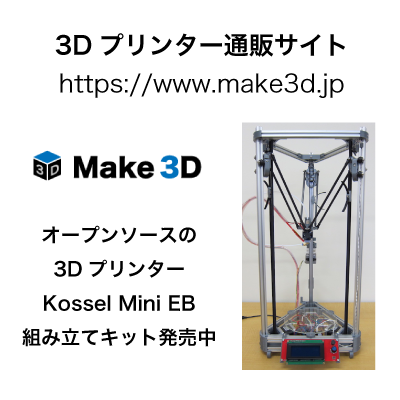
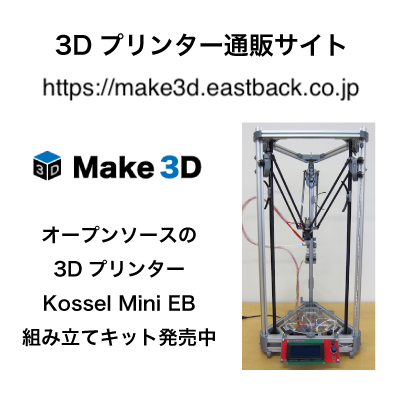
Make3DのURLを変更

Changed region(s): [[0.09, 0.18, 0.9, 0.27]]

diff --git a/en/index.html b/en/index.html
@@ -424,7 +424,7 @@ Customer Cast is a service launched in October 2016, and has been used by many p
             <div class='columns'>
               <div class='column is-12'>
             <p class='my-1 has-text-weight-semibold'>
-Open source 3D printer Kossel Mini EB Sale of assembly kits, etc. https://www.make3d.jp
+Open source 3D printer Kossel Mini EB Sale of assembly kits, etc. https://make3d.eastback.co.jp
             </p>
             </div>
             </div>
@@ -559,7 +559,7 @@ Open source 3D printer Kossel Mini EB Sale of assembly kits, etc. https://www.ma
 
                         <div class='card-overlay'>
                           <h2 class='has-text-weight-bold'>make3D</h2>
-                          <a  href="https://www.make3d.jp/"  target="_blank" rel="noopener">
+                          <a  href="https://make3d.eastback.co.jp/"  target="_blank" rel="noopener">
                             <i class="fas fa-external-link-alt fa-3x has-text-white"></i>
                           </a>
                         </div>

diff --git a/index.html b/index.html
@@ -427,7 +427,7 @@
             <p class='my-1 has-text-weight-semibold'>
             オープンソースの3Dプリンター Kossel Mini EB
             組み立てキット等の販売
-            https://www.make3d.jp
+            https://make3d.eastback.co.jp
             </p>
             </div>
             </div>
@@ -561,7 +561,7 @@
 
                         <div class='card-overlay'>
                           <h2 class='has-text-weight-bold'>make3D</h2>
-                          <a  href="https://www.make3d.jp/"  target="_blank" rel="noopener">
+                          <a  href="https://make3d.eastback.co.jp/"  target="_blank" rel="noopener">
                             <i class="fas fa-external-link-alt fa-3x has-text-white"></i>
                           </a>
                         </div>

diff --git a/news/2016-04-08-make3d-launch/index.html b/news/2016-04-08-make3d-launch/index.html
@@ -228,7 +228,7 @@
         
         <div class="container markdown top-pad mb-4">
           <p>2016年4月8日(金)、3Dプリンター販売サービス「Make3D」の運用を開始しました。当面は3DプリンターDIY（組み立て）キット「Kossel Mini EB」をメイン商品として販売します。</p>
-<p><a href="https://www.make3d.jp" target="_blank">Make3Dサイト</a>
+<p><a href="https://make3d.eastback.co.jp" target="_blank">Make3Dサイト</a>
 </p>
 
         </div>

diff --git a/en/news/2016-04-08-make3d-launch/index.html b/en/news/2016-04-08-make3d-launch/index.html
@@ -228,7 +228,7 @@
         
         <div class="container markdown top-pad mb-4">
           <p>On Friday, April 8, 2016, the 3D printer sales service &ldquo;Make3D&rdquo; started operation. For the time being, the 3D printer DIY (assembly) kit &ldquo;Kossel Mini EB&rdquo; will be sold as the main product.</p>
-<p><a href="https://www.make3d.jp" target="_blank">Make3D site</a>
+<p><a href="https://make3d.eastback.co.jp" target="_blank">Make3D site</a>
 </p>
 
         </div>

diff --git a/en/business/index.html b/en/business/index.html
@@ -280,7 +280,7 @@ Our business - East Back Corporation
             <div class='columns'>
               <div class='column is-12'>
             <p class='my-1 has-text-weight-semibold'>
-Open source 3D printer Kossel Mini EB Sale of assembly kits, etc. https://www.make3d.jp
+Open source 3D printer Kossel Mini EB Sale of assembly kits, etc. https://make3d.eastback.co.jp
             </p>
             </div>
             </div>

diff --git a/business/index.html b/business/index.html
@@ -287,7 +287,7 @@
             <p class='my-1 has-text-weight-semibold'>
             オープンソースの3Dプリンター Kossel Mini EB
             組み立てキット等の販売
-            https://www.make3d.jp
+            https://make3d.eastback.co.jp
             </p>
             </div>
             </div>
